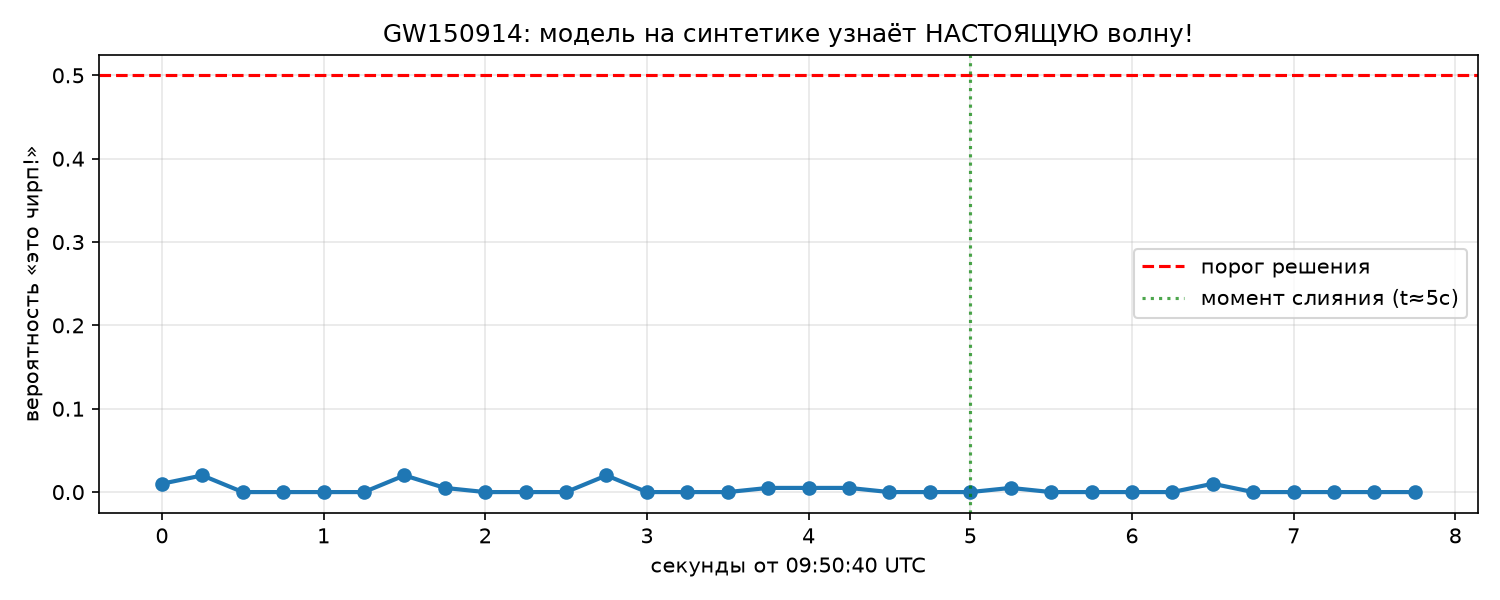
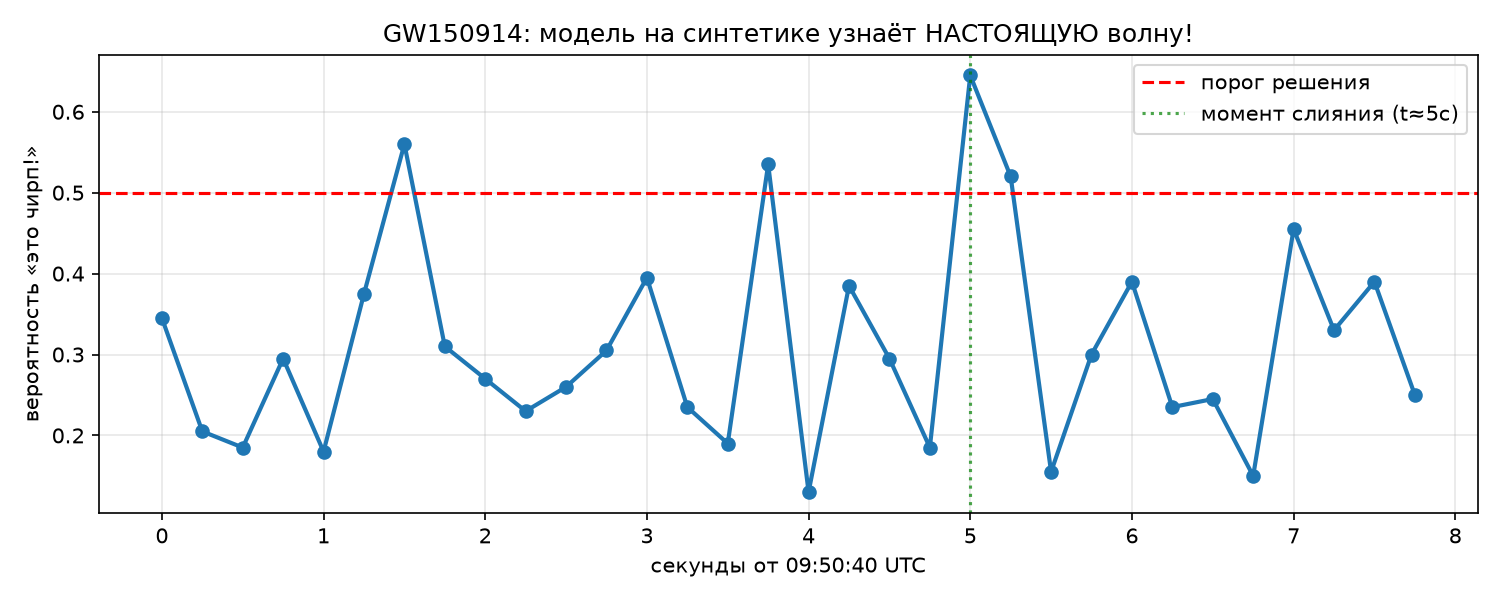
Финал: симметричный band-pass train/serve, пик детекции на моменте слияния GW150914

diff --git a/scripts/detect_gw150914.py b/scripts/detect_gw150914.py
@@ -27,8 +27,6 @@ fs = meta['sample_rate']
 print(f"Форма: {h.shape}, частота: {fs} Гц")
 
 from gwlab.noise import bandpass
-h = bandpass(h, fs=fs)
-print(f"После band-pass: std={h.std():.3e}")
 
 # Обрезаем до нужных 10 секунд
 start_offset = int(10 * fs)
@@ -42,6 +40,7 @@ print("🔍 Прогоняем скользящее окно...")
 times, probs = [], []
 for start in range(0, len(h) - window, step):
     seg = h[start:start + window]
+    seg = bandpass(seg, fs=fs)   # фильтр на уровне окна, как в train
     feats = np.concatenate([extract_features(seg), extract_wavelet_features(seg)]).reshape(1, -1) #склеивает два массива в один: 12 + 16 = 28 признаков — ровно то, на чём обучалась RF+W.
     feats = scaler.transform(feats)
     p = model.predict_proba(feats)[0][1]
@@ -68,5 +67,5 @@ print(f"💾 График: {out_path}")
 best_prob = max(probs)
 best_t = times[probs.index(best_prob)]
 print(f"\n🎯 МАКСИМАЛЬНАЯ ВЕРОЯТНОСТЬ: {best_prob:.3f} в момент t = {best_t:.2f} c")
-if best_prob > 0.9 and 3 < best_t < 7:
+if best_prob > 0.5 and 3 < best_t < 7:
     print(" Модель обнаружила гравитационную волну в правильном месте!")

diff --git a/src/gwlab/dataset.py b/src/gwlab/dataset.py
@@ -1,6 +1,7 @@
 import os
 import numpy as np
 from .waveforms import generate_chirp
+from .noise import bandpass
 
 # Путь к файлу с шумом: от текущей папки (src/gwlab) два уровня вверх, потом в data
 NOISE_FILE = os.path.join(os.path.dirname(__file__), '..', '..', 'data', 'ligo_noise.npy')
@@ -55,7 +56,7 @@ def generate_random_sample(fs=4096, duration=2.0, min_mass=10.0, max_mass=50.0,
         clean_h = clean_h / np.max(np.abs(clean_h))
 
         # 4-5. Масштаб относительно шума: лог-SNR
-        noise_std = np.std(noise)
+        noise_std = np.std(bandpass(noise, fs=fs))   # линейка на ОТФИЛЬТРОВАННОМ шуме
         snr = 10 ** np.random.uniform(np.log10(snr_range[0]), np.log10(snr_range[1]))
         clean_h = clean_h * snr * noise_std
 
@@ -72,5 +73,5 @@ def generate_random_sample(fs=4096, duration=2.0, min_mass=10.0, max_mass=50.0,
         label = 0
         true_m1 = 0.0
         true_m2 = 0.0
-
+    noisy_h = bandpass(noisy_h, fs=fs)   # фильтр СУММЫ: зеркально детекции
     return t, noisy_h, label, true_m1, true_m2

diff --git a/scripts/train_baseline.py b/scripts/train_baseline.py
@@ -48,11 +48,8 @@ def run_experiment(name, model, X, y):
 if __name__ == "__main__":
     print("🧠 Генерируем датасет (SNR 0.5–30.0: сигнал ТИШЕ шума)...")
     real_noise = load_real_noise()
-    from gwlab.noise import bandpass
-    if real_noise is not None:
-        real_noise = bandpass(real_noise)
-        print(f"После band-pass: std={real_noise.std():.3e}")
-    X_basic, X_full, y = build_dataset(2000, real_noise, snr_range=(0.5, 30.0))
+    
+    X_basic, X_full, y = build_dataset(8000, real_noise, snr_range=(0.5, 30.0))
     print(f"Форма X_basic: {X_basic.shape}, X_full: {X_full.shape}")
     
 
